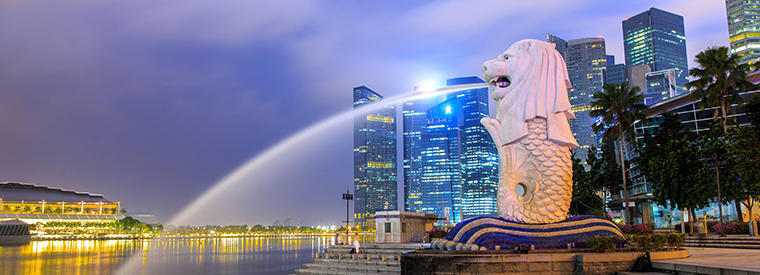
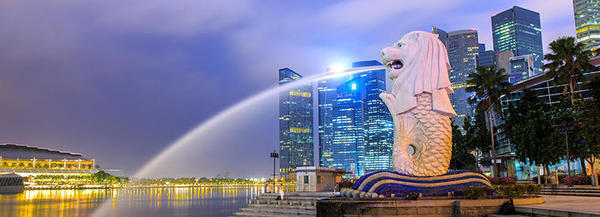
Image Resize and css plus organisation Photo pages

diff --git a/app/assets/stylesheets/application.scss b/app/assets/stylesheets/application.scss
@@ -10,6 +10,9 @@
  * files in this directory. Styles in this file should be added after the last require_* statement.
  * It is generally better to create a new file per style scope.
  *
- *= require_tree .
+ 
+
  *= require_self
+ *= require_tree .
  */
+ 

diff --git a/app/assets/stylesheets/photoalbum_app_css.scss b/app/assets/stylesheets/photoalbum_app_css.scss
@@ -1,0 +1,18 @@
+div.indexphotos {
+	
+	display: inline-block;
+	margin: 20px;
+}
+
+table.albumshow {
+	
+	text-align: center;
+
+	
+}
+
+table.albumshow th {
+	
+	padding: 10px;
+	color: #CC6F6F;
+}

diff --git a/app/uploaders/image_uploader.rb b/app/uploaders/image_uploader.rb
@@ -2,7 +2,7 @@ class ImageUploader < CarrierWave::Uploader::Base
 
   # Include RMagick or MiniMagick support:
   # include CarrierWave::RMagick
-  # include CarrierWave::MiniMagick
+  include CarrierWave::MiniMagick
 
   # Choose what kind of storage to use for this uploader:
   storage :file
@@ -28,11 +28,11 @@ class ImageUploader < CarrierWave::Uploader::Base
   # def scale(width, height)
   #   # do something
   # end
-
+  process resize_to_fit: [600, 600]
   # Create different versions of your uploaded files:
-  # version :thumb do
-  #   process resize_to_fit: [50, 50]
-  # end
+  version :thumb do
+    process resize_to_fit: [200, 200]
+  end
 
   # Add a white list of extensions which are allowed to be uploaded.
   # For images you might use something like this:

diff --git a/app/controllers/photos_controller.rb b/app/controllers/photos_controller.rb
@@ -26,6 +26,7 @@ class PhotosController < ApplicationController
 	def show
 		@photoal = Photoalbum.find(params[:photoalbum_id])
 		@phot = Photo.find_by(id: params[:id])
+		# @a = distance_of_time_in_words(time.now, @phot.updated_at.localtime)
 
 	end
 
@@ -41,6 +42,7 @@ class PhotosController < ApplicationController
 		if @phot.update(post_params)
 			# if i put @photoal.update(post_params) it still works! why?
 			flash[:notice] = "Successfully Updated"
+			redirect_to photoalbum_photo_path(photoalbum_id: @photoal.id, id: @phot.id)
 		else
 			flash[:notice] = "Not Successfully Updated"
 			render :edit

diff --git a/config/initializers/assets.rb b/config/initializers/assets.rb
@@ -12,3 +12,4 @@ Rails.application.config.assets.paths << Rails.root.join('node_modules')
 # application.js, application.css, and all non-JS/CSS in the app/assets
 # folder are already added.
 # Rails.application.config.assets.precompile += %w( admin.js admin.css )
+Rails.application.config.assets.precompile += %w( photoalbum_app_css.css )
